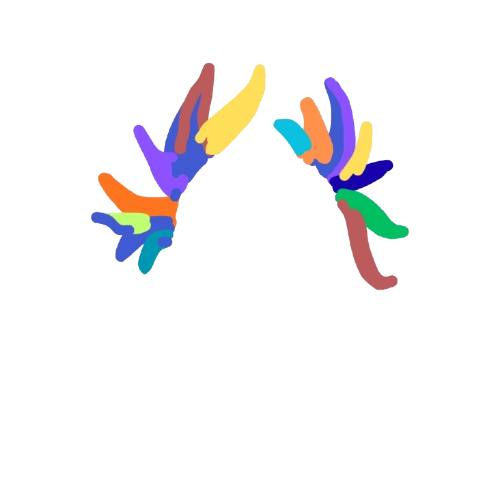
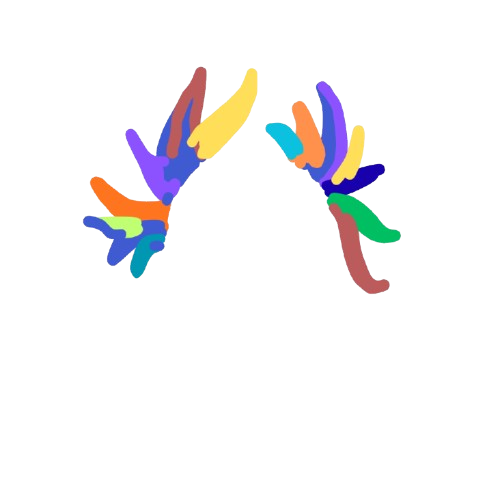
Added random button + function, corrected + added art

Changed region(s): [[0.45, 0.12, 0.84, 0.6], [0.15, 0.12, 0.48, 0.57]]

diff --git a/src/script.js b/src/script.js
@@ -146,3 +146,21 @@ document.getElementById('save-btn').addEventListener('click', () =>
 
     drawNext();
 });    
+
+document.getElementById('random-btn').addEventListener('click', () =>
+{
+    document.querySelectorAll('.snippet-grid img').forEach(i => i.classList.remove('selected'));
+
+    layerOrder.forEach(layer =>
+    {
+        const grid = document.querySelector(`.snippet-grid[data-tab="${layer}"]`);
+        if (!grid) return;
+        const images = Array.from(grid.querySelectorAll('img'));
+        if (images.length === 0) return;
+        const random_img = images[Math.floor(Math.random() * images.length)];
+        random_img.classList.add('selected');
+        selections[layer] = random_img.src;
+    });
+
+    render_preview();
+});

diff --git a/src/style.css b/src/style.css
@@ -238,3 +238,20 @@ body
     top: 544px;
     left: 24px;
 }
+.random-btn
+{
+    background: #776652;
+    border: 2px solid #4d3820;
+    border-radius: 2px;
+    color: #f7eadb;
+    font-family: "Nixie One", system-ui;
+    font-size: 0.9rem;
+    padding: 4px 8px;
+    cursor: pointer;
+    position: absolute;
+    top: 544px;
+    right: 328px;
+    display: flex;
+    align-items: center;
+    justify-content: center;
+}

diff --git a/index.html b/index.html
@@ -14,6 +14,7 @@
     <div class="preview-box" id="preview-box">
     </div>
     <button class="save-btn" id="save-btn">Download PFP</button>
+    <button class="random-btn" id="random-btn">Shuffle<span class="material-icons">shuffle</span></button>
     <div class="toggle-wrapper">
     <div class="toggle-bar">
         <button class="active">Background</button>
@@ -30,7 +31,7 @@
     <div class="fullview-close" id="fullview-close">
         <button class="fullview-close-btn" id="fullview-close-btn"><span class="material-icons">arrow_back</span></button>
         <div class="fullview-notes">
-            <p> Heya! I would really like to thank you for using my PFP maker!</p>
+            <p> Heya! I would really like to thank you for using the PFP maker!</p>
             <p> If you want to contribute art, please read the following:</p>
             <p>» I have made the art in canva, click the button below to access it. </p>
             <p>» please make sure that you create a seperate page to create your own designs, don't delete or modify existing ones.</p>
@@ -38,7 +39,7 @@
             <p>» Check if your design aligns with the character's position, I would recommend to duplicate a page with the character in it (eg: char-2) and start designing on top of it, you can remove the character when you're done with the design.</p>
             <p>» Then download only your designs, and remove the background using (remove.bg)</p>
             <p>» Then download the images from remove.bg and send it to me through slack (@siddharthan)</p>
-            <p>» I will really appreciate such contributions! Please don't misuse the link. Thanks :]</p>
+            <p>» I will really appreciate such contributions! Please DO NOT misuse the link. Thanks :]</p>
             <a href="https://canva.link/xf9pz1ntv1nl064" target="_blank"><button class="fullview-close-btn">Access Canva</button></a>
         </div>
         
@@ -75,9 +76,9 @@
             <img src="static/snipets/head/horn-1.png" alt="horn-1" />
             <img src="static/snipets/head/horn-2.png" alt="horn-2" />
             <img src="static/snipets/head/horn-3.png" alt="horn-3" />
-            <img src="static/snipets/head/horn-4.png" alt="horn-4" />
-            <img src="static/snipets/head/horn-5.png" alt="horn-5" />
-            <img src="static/snipets/head/horn-6.png" alt="horn-6" />
+            <!-- <img src="static/snipets/head/horn-4.png" alt="horn-4" /> -->
+            <!-- <img src="static/snipets/head/horn-5.png" alt="horn-5" /> -->
+            <!-- <img src="static/snipets/head/horn-6.png" alt="horn-6" /> -->
             <img src="static/snipets/head/hat-1.png" alt="hat-1" />
             <img src="static/snipets/head/add-on-1.png" alt="add-on-1" />
             <img src="static/snipets/empty/empty.png" alt="empty" />
@@ -100,6 +101,7 @@
         </div>
         <div class="snippet-grid" data-tab="Extra">
             <img src="static/snipets/adds/extra-1.png" alt="add-1" />
+            <img src="static/snipets/adds/extra-2.png" alt="add-2" />
         </div>
     </div>
 </div>